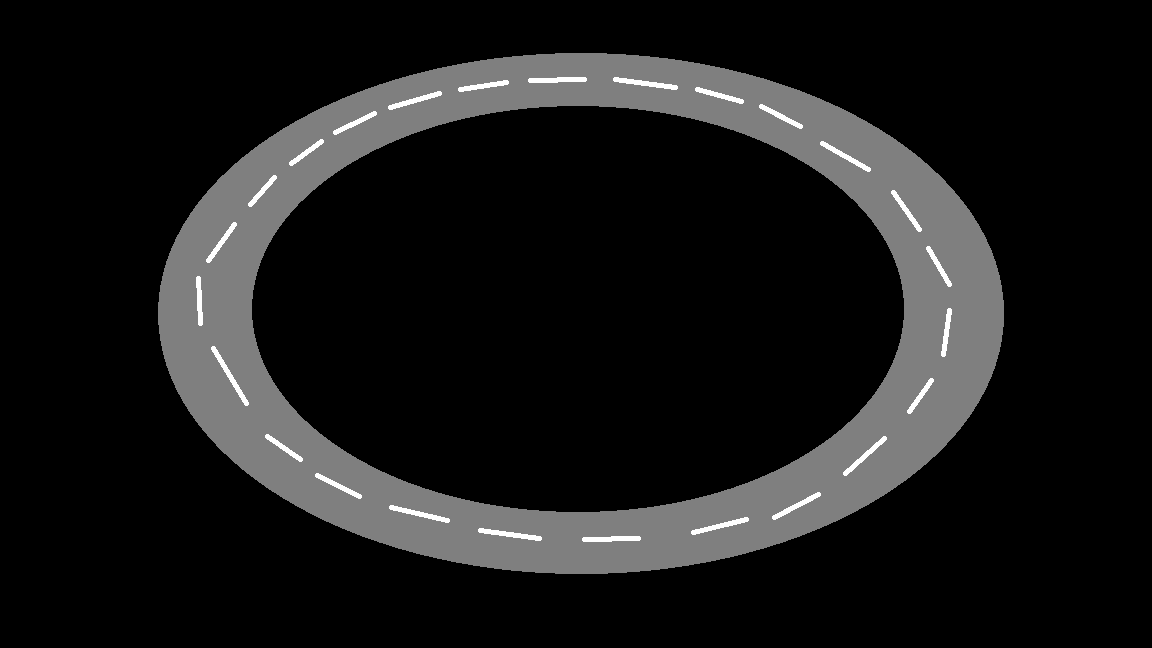
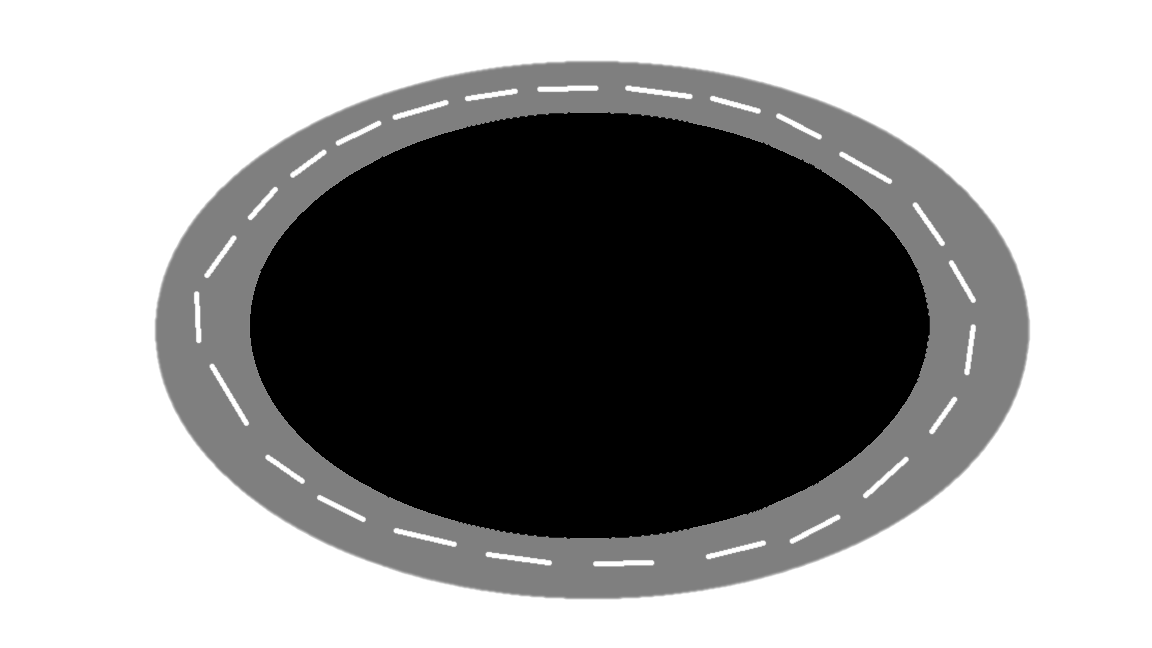
Collision setting

diff --git a/cargame.py b/cargame.py
@@ -18,7 +18,7 @@ class Car(pygame.sprite.Sprite):
     ACCELERATION = 2
     TURN_SPEED = 6
 
-    def __init__(self, image, position, speed_font_offset=0):
+    def __init__(self, image, position, pole, speed_font_offset=0):
         pygame.sprite.Sprite.__init__(self)
         self.speed = 0
         self.direction = 0
@@ -26,7 +26,8 @@ class Car(pygame.sprite.Sprite):
         self.position = position
         self.speed_font_offset = speed_font_offset
         self.k_left = self.k_right = self.k_down = self.k_up = 0
-        self.incollision = []
+        self.incollision = False
+        self.pole = pole
 
     def update(self, deltat):
         myfont = pygame.font.SysFont("Comic Sans MC", 30)
@@ -77,19 +78,36 @@ class Car(pygame.sprite.Sprite):
             y = 0
             self.speed = 0
 
+
+        if self.incollision:
+            pole_x, pole_y = self.pole.center
+            w = pole_x - x
+            h = pole_y - y - self.pole.height / 2
+
+            print(w, h)
+            if w > 0:
+                x += w - self.pole.width / 2
+            if w < 0:
+                x -= w + self.pole.width / 2
+
+
         self.position = (x, y)
         self.image = pygame.transform.rotate(self.src_image, self.direction)
         self.rect = self.image.get_rect()
         self.rect.center = self.position
 
+
 class PadSprite(pygame.sprite.Sprite):
-    normal = pygame.image.load('images/race_pads.png')
+    normal = pygame.image.load('images/Трасса.png')
     hit = pygame.image.load('images/collision.png')
 
     def __init__(self, position, rotate):
         super(PadSprite, self).__init__()
         self.position = position
         self.rotate = rotate
+        self.image = pygame.transform.rotate(self.normal, self.rotate)
+        self.rect = pygame.Rect(self.image.get_rect())
+        self.rect.center = self.position
 
     def update(self ):
         # hit_list
@@ -97,7 +115,7 @@ class PadSprite(pygame.sprite.Sprite):
         self.rect = pygame.Rect(self.image.get_rect())
         self.rect.center = self.position
         self.mask = pygame.mask.from_surface(self.image)
-        self.image.set_alpha(20)
+        self.image.set_alpha(255)
         # if self in hit_list:
         #     self.image = self.hit
         # else:
@@ -106,15 +124,9 @@ class PadSprite(pygame.sprite.Sprite):
 
 if __name__ == "__main__":
 
+    pole = PadSprite((505, 340), 0)
     pads = [
-        PadSprite((575, 40), 0),
-        PadSprite((575, 585), 0),
-        PadSprite((300, 510), 335),
-        PadSprite((860, 510), 25),
-        PadSprite((300, 110), 25),
-        PadSprite((860, 105), 335),
-        PadSprite((150, 300), 90),
-        PadSprite((1009, 300), 90)
+        pole
     ]
 
     pad_group = pygame.sprite.Group(pads)
@@ -122,12 +134,12 @@ if __name__ == "__main__":
     screen = pygame.display.set_mode((SCREEN_WIDTH, SCREEN_HEIGHT))
     clock = pygame.time.Clock()
     rect = screen.get_rect()
-    car = Car('images/car.png', (240, 200))
+    car = Car('images/car.png', (240, 200), pole.rect)
     car_greengroup = pygame.sprite.Group(car)
-    redcar = Car('images/red_car.png', (245, 200), 200)
+    redcar = Car('images/red_car.png', (245, 200), pole.rect.center, 200)
     car_redgroup = pygame.sprite.Group(redcar)
-    fon = pygame.image.load("images/Трасса.png")
-    fonrect = fon.get_rect()
+    # fon = pygame.image.load("images/Трасса.png")
+    # fonrect = fon.get_rect()
 
 
 
@@ -162,27 +174,20 @@ if __name__ == "__main__":
         pad_group.update()
 
         collisions_green = pygame.sprite.spritecollide(car, pad_group, False, pygame.sprite.collide_mask)
-
-        for collision in collisions_green:
-            print(collision.rect.x - car.position[0], collision.rect.y - car.position[1])
-
         # pygame.draw.line(screen, 255, start_pos=-140, end_pos=-140)
 
         if collisions_green != []:
-            timer_text = font.render("Crash!", True, (255, 0, 0))
-            car.incollision = collisions_green
-            loss_text = win_font.render('Press Space to Retry', True, (255, 0, 0))
-        elif collisions_green == []:
             car.incollision = False
+        elif collisions_green == []:
+            car.incollision = True
 
         collisions_red = pygame.sprite.groupcollide(car_redgroup, pad_group, False, False)
         if collisions_red != []:
             timer_text = font.render("Crash!", True, (255, 0, 0))
             loss_text = win_font.render('Press Space to Retry', True, (255, 0, 0))
-        print(collisions_green)
 
         screen.fill((0, 0, 0))
-        screen.blit(fon, fonrect)
+        # screen.blit(fon, fonrect)
         # pad_group.update(collisions)
 
         pad_group.draw(screen)
